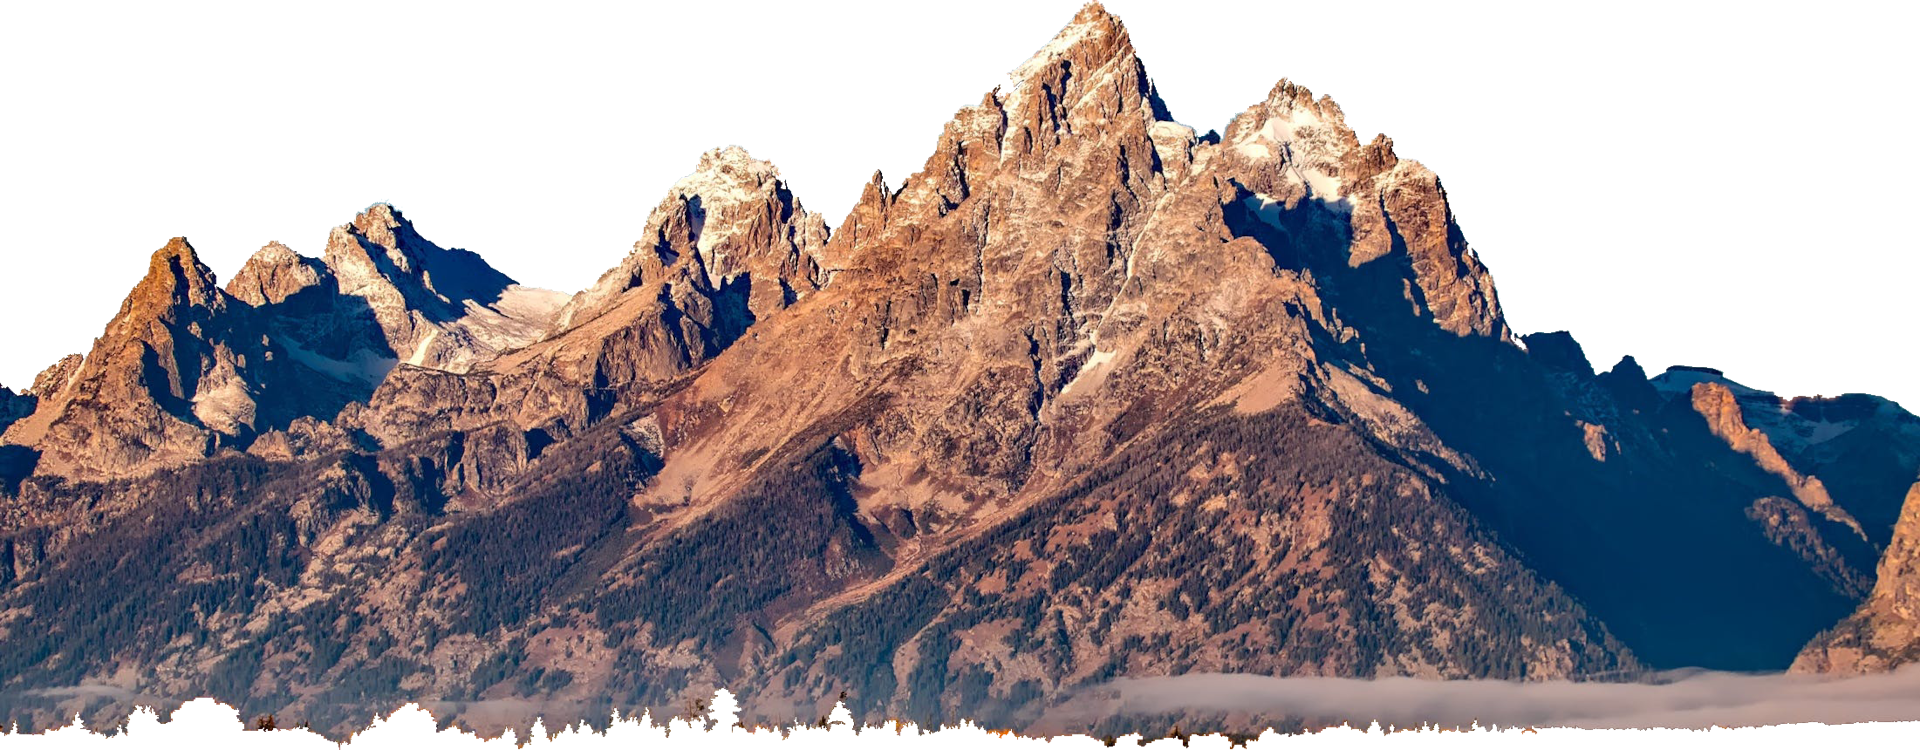
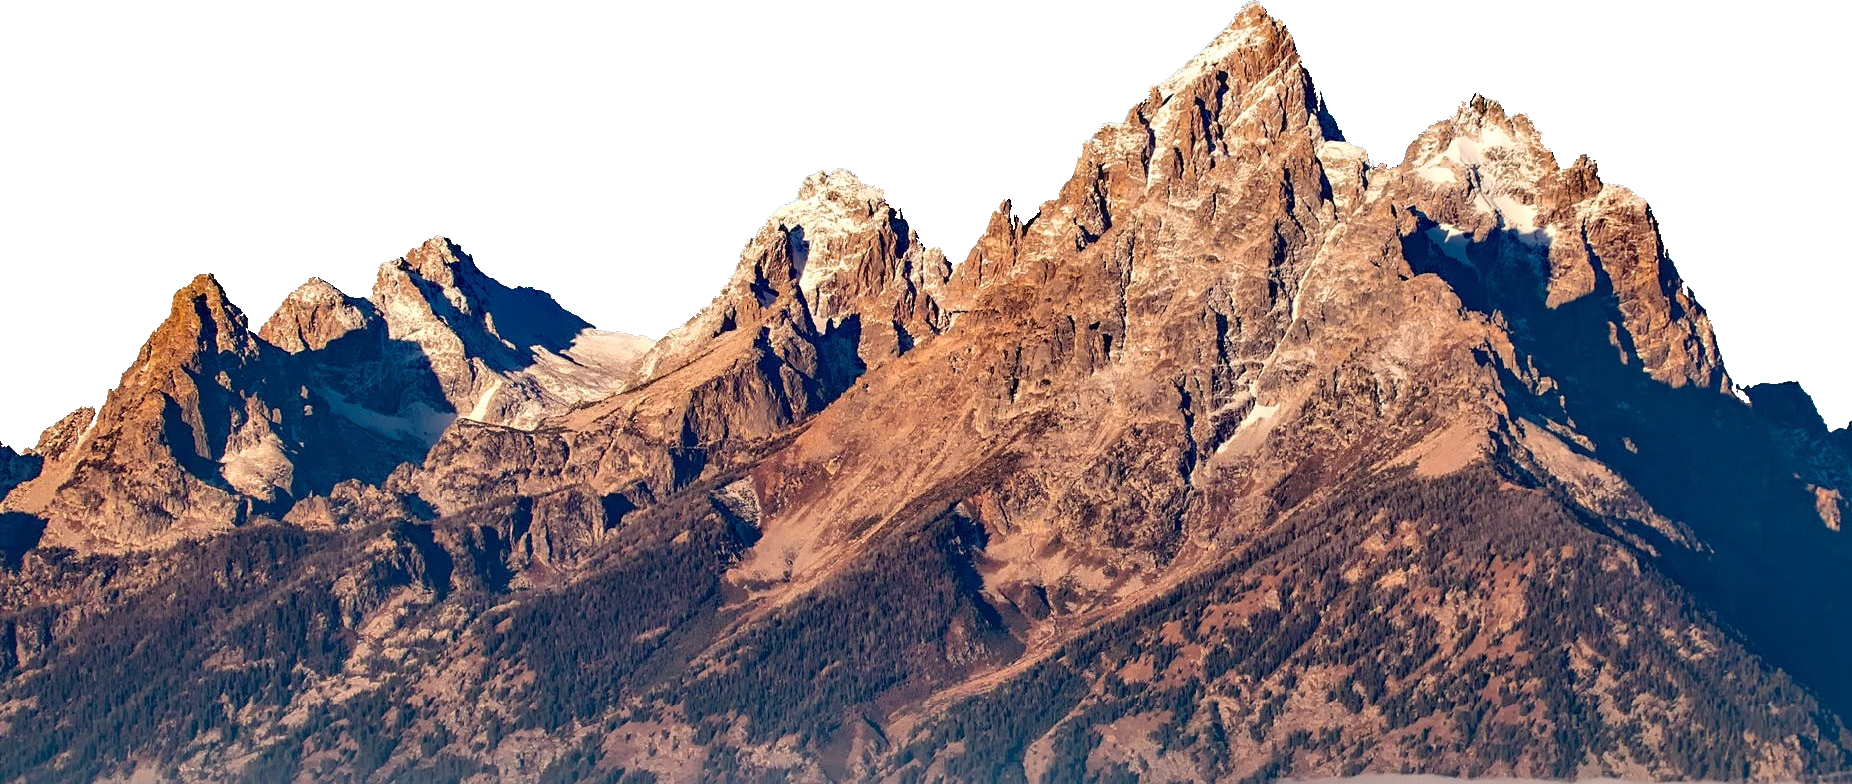
Parallax done

diff --git a/src/components/parallax/Parallax.tsx b/src/components/parallax/Parallax.tsx
@@ -1,4 +1,4 @@
-import { motion, useInView } from "framer-motion";
+import { animate, motion, useInView } from "framer-motion";
 import { useRef } from "react";
 import './parallax.scss';
 
@@ -22,45 +22,45 @@ const Parallax = () => {
     },
   };
 
-  const mount1Variant = {
-    hidden: {
-      x:0,
-      y:0,
-    },
-    visible: {
-      x:600,
-      y:500,
-      transition: {
-        duration: 4,
-        delay: 2.1,
-      },
-    },
-  };
+  // const mount1Variant = {
+  //   hidden: {
+  //     x:0,
+  //     y:0,
+  //   },
+  //   visible: {
+  //     x:600,
+  //     y:500,
+  //     transition: {
+  //       duration: 4,
+  //       delay: 2.1,
+  //     },
+  //   },
+  // };
 
-  const mount2Variant = {
-    hidden: {
-      x:0,
-      y:0,
-    },
-    visible: {
-      x:-600,
-      y:1500,
-      transition: {
-        duration: 4.5,
-        delay: 2.2,
-      },
-    },
-  };
+  // const mount2Variant = {
+  //   hidden: {
+  //     x:0,
+  //     y:0,
+  //   },
+  //   visible: {
+  //     x:-600,
+  //     y:1500,
+  //     transition: {
+  //       duration: 2.5,
+  //       delay: 2.2,
+  //     },
+  //   },
+  // };
 
   const backgroundMain1Variant = {
     hidden: {
       y:0,
     },
     visible: {
-      y:-500,
+      y:-300,
       transition: {
         ease: "easeOut",
-        duration: 7,
+        duration: 4,
         delay: 0.8,
       },
     },
@@ -71,14 +71,79 @@ const Parallax = () => {
       y:0,
     },
     visible: {
-      y:-1094,
+      y:-800,
       transition: {
         ease: "easeOut",
-        duration: 8,
+        duration: 3,
         delay: 0.3,
       },
     },
   };
+
+  const cloud1Variant = {
+    hidden: {
+      opacity: 0,
+    },
+    visible: {
+      opacity: 1,
+      transition: {
+        duration: 1,
+        delay: 3,
+      },
+    },
+    moving: {
+      x: ['20vw', '-40vw'],
+      transition: {
+        ease: 'linear',
+        duration: 80,
+        repeat: Infinity,
+        repeatType: 'reverse',
+      },
+    },
+  }
+
+  const cloud2Variant = {
+    hidden: {
+      opacity: 0,
+    },
+    visible: {
+      opacity: 1,
+      transition: {
+        duration: 1.2,
+        delay: 3.5,
+      },
+    },
+    moving: {
+      x: ['10vw', '-25vw'],
+      transition: {
+        ease: 'linear',
+        duration: 130,
+        repeat: Infinity,
+        repeatType: 'reverse',
+      },
+    },
+  }
+
+  const textVariant = {
+    hidden: {
+      opacity: 0,
+    },
+    visible: {
+      opacity: 1,
+      transition: {
+        duration: 0.5,
+        delay: 1,
+      },
+    },
+    moving: {
+      x: "-200%",   
+        transition: {
+            repeat: Infinity,
+            repeatType:"loop",
+            duration: 20,
+        },
+    },
+  }
 
   return (
     <div className="parallaxContainer" ref={ref}>
@@ -107,6 +172,22 @@ const Parallax = () => {
         animate={isInView ? "visible" : "hidden"}
         /> */}
         <motion.img 
+        src="/src/images/cloud1.png" 
+        alt="cloud1" 
+        className='cloud1'
+        variants={cloud1Variant}
+        initial="hidden"
+        animate={isInView ? ["visible", "moving"] : "hidden"}
+        />
+        <motion.img 
+        src="/src/images/cloud2.png" 
+        alt="cloud2" 
+        className='cloud2'
+        variants={cloud2Variant}
+        initial="hidden"
+        animate={isInView ? ["visible", "moving"] : "hidden"}
+        />
+        <motion.img 
         src="/src/images/backgroundMain1.png" 
         alt="backgroundMain1" 
         className='backgroundMain1'
@@ -122,6 +203,12 @@ const Parallax = () => {
         initial="hidden"
         animate={isInView ? "visible" : "hidden"}
         />
+        <motion.div
+        className="title"
+        variants={textVariant}
+        initial="hidden"
+        animate={isInView ? ["visible", "moving"] : "hidden"}
+        >Parallax is here!</motion.div>
 
     </div>
   )

diff --git a/src/components/parallax/parallax.scss b/src/components/parallax/parallax.scss
@@ -15,7 +15,7 @@
     .backgroundMain1 { 
         position: absolute;
         width: 100%;
-        bottom: -500px;
+        bottom: -800px;
         z-index: 2;
         background-size: cover;
     }
@@ -41,5 +41,33 @@
         bottom: 0;
         left: 0;
         z-index: 3;
+    }
+
+    .cloud1 {
+        position: absolute;
+        width: 30%;
+        top: 40%;
+        left: 20%;
+        z-index: 4;
+    }
+
+    .cloud2 {
+        position: absolute;
+        width: 30%;
+        top: 50%;
+        left: 60%;
+        z-index: 3;
+    }
+    .title{
+        color: rgba(243, 248, 242, 0.5) ;
+        position: absolute;
+        width: 100%;
+        top: 10vh;
+        right: -100vw;
+        font-size: 20vh;
+        white-space: nowrap;
+        text-transform: uppercase;
+        font-family: 'Anton', sans-serif;
+        user-select: none;
     }
 }

diff --git a/index.html b/index.html
@@ -6,7 +6,8 @@
     <meta name="viewport" content="width=device-width, initial-scale=1.0" />
     <link rel="preconnect" href="https://fonts.googleapis.com">
     <link rel="preconnect" href="https://fonts.gstatic.com" crossorigin>
-    <link href="https://fonts.googleapis.com/css2?family=Amatic+SC:wght@400;700&family=Anton&family=Bebas+Neue&display=swap" rel="stylesheet"> </head>
+    <link href="https://fonts.googleapis.com/css2?family=Anton&family=Bebas+Neue&family=Bowlby+One+SC&family=Khand:wght@400;700&display=swap" rel="stylesheet">
+    
   <body>
     <div id="root"></div>
     <script type="module" src="/src/main.tsx"></script>

diff --git a/src/components/main/main.scss b/src/components/main/main.scss
@@ -30,15 +30,14 @@
      }
 
     .sliderContainer{
-        color: rgba(243, 248, 242, 0.05) ;
+        color: rgba(243, 248, 242, 0.1) ;
         position: absolute;
         width: 100%;
         bottom: -200px;
         font-size: 60vh;
         white-space: nowrap;
-        font-family: 'Anton', sans-serif;
-        font-weight: bold;
         text-transform: uppercase;
+        font-family: 'Anton', sans-serif;
         user-select: none;
     }
 }
